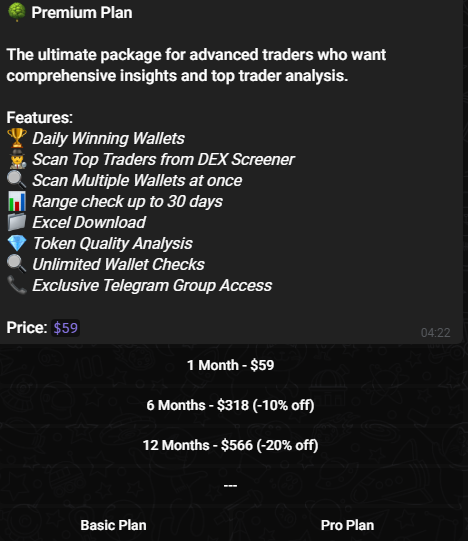
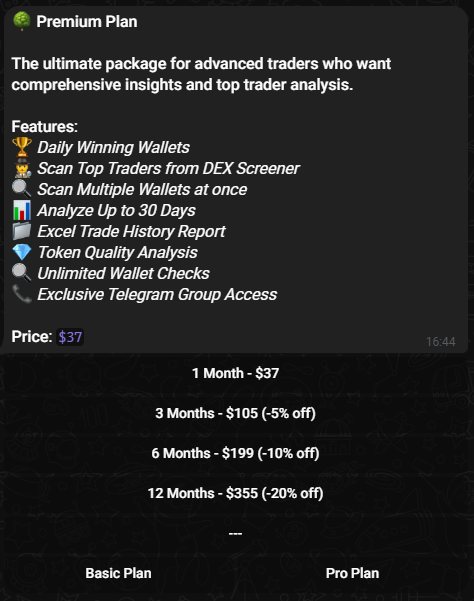
Add files via upload

diff --git a/index.html b/index.html
@@ -82,78 +82,91 @@
         </div>
     </section>
 
-<section id="plans" class="plan-container animate-on-scroll">
-    <div class="plan" id="plan-basic">
-      <h2>Basic</h2>
-      <h1>$19<span>/month</span></h1>
-      <ul>
-        <li>
-          <b class="feature-toggle">Unlimited Wallet Checks <span class="plus-icon">+</span></b>
-          <p class="feature-description">Check any wallet address as many times as you want, without limits.</p>
-        </li>
-        <li>
-          <b class="feature-toggle">Exclusive Telegram Group Access <span class="plus-icon">+</span></b>
-          <p class="feature-description">Join our private Telegram group for expert insights and community support.</p>
-        </li>
-      </ul>
-      <p>Perfect for beginners who need basic wallet analysis and community support.</p>
-      <a href="https://t.me/PulseTrackerSolPay_bot" target="_blank" class="plan-button">Get Basic Access!</a>
-    </div>
-  
-    <div class="plan" id="plan-standard">
-      <h2>Pro</h2>
-      <h1>$28<span>/month</span></h1>
-      <ul>
-        <li>
-          <b class="feature-toggle">Analyze Up to 30 Days <span class="plus-icon">+</span></b>
-          <p class="feature-description">Customize your analysis from 1 to 30 days. Focus on recent activity or examine longer-term patterns to suit your specific research needs.</p>
-        </li>
-        <li>
-          <b class="feature-toggle">Excel Trade History Report<span class="plus-icon">+</span></b>
-          <p class="feature-description">Download detailed wallet trading data in XLSX format. Easily review and analyze every transaction in a familiar spreadsheet format.</p>
-        </li>
-        <li>
-          <b class="feature-toggle">Token Quality Analysis <span class="plus-icon">+</span></b>
-          <p class="feature-description">Assess a wallet's skill in selecting profitable tokens. Evaluate historical performance to gauge the potential for future profitable trades and inform your investment strategy.</p>
-        </li>
-      </ul>
-      <ul>
-        <li class="small">Unlimited Wallet Checks</li>
-        <li class="small">Exclusive Telegram Group Access</li>
-      </ul>
-      <p>Ideal for intermediate traders looking for detailed trade logs and token choice analysis.</p>
-      <a href="https://t.me/PulseTrackerSolPay_bot" target="_blank" class="plan-button">Get Pro Access!</a>
-    </div>
-  
-    <div class="plan" id="plan-premium">
-      <h2>Premium</h2>
-      <h1>$37<span>/month</span></h1>
-      <ul>
-        <li>
-          <b class="feature-toggle">Daily Winning Wallets <span class="plus-icon">+</span></b>
-          <p class="feature-description">Gain exclusive access to our private announcement group for daily XLSX files detailing top-performing wallets, helping you make informed decisions.</p>
-        </li>
-        <li>
-          <b class="feature-toggle">Scan Multiple Wallets at once <span class="plus-icon">+</span></b>
-          <p class="feature-description">Use the /list command to analyze up to 10 wallets simultaneously, enabling efficient comparison across multiple traders.</p>
-        </li>
-        <li>
-          <b class="feature-toggle">Scan Top Traders from DEX Screener <span class="plus-icon">+</span></b>
-          <p class="feature-description">Utilize the /top command to identify and examine the top 10 wallets trading a specific token on DEX Screener, providing valuable insights into successful trading strategies.</p>
-        </li>
-      </ul>
-      <ul>
-        <li class="small">Unlimited Wallet Checks</li>
-        <li class="small">Exclusive Telegram Group Access</li>
-        <li class="small">Analyze Up to 30 Days</li>
-        <li class="small">Excel Trade History Report</li>
-        <li class="small">Token Quality Analysis</li>
-      </ul>
-      <p>The ultimate package for advanced traders who want comprehensive insights and top trader analysis.</p>
-      <a href="https://t.me/PulseTrackerSolPay_bot" target="_blank" class="plan-button">Get Premium Access!</a>
-    </div>
-</section>
+    <section id="plans" class="plan-container animate-on-scroll">
+        <div class="launch-price-label">Launch Prices</div>
+        <div class="plan" id="plan-basic">
+            <h2>Basic</h2>
+            <h1>
+                <span class="old-price">$26</span> 
+                <span class="new-price">$19</span><span>/month</span>
+            </h1>
+            <ul>
+                <li>
+                    <b class="feature-toggle">Unlimited Wallet Checks <span class="plus-icon">+</span></b>
+                    <p class="feature-description">Check any wallet address as many times as you want, without limits.</p>
+                </li>
+                <li>
+                    <b class="feature-toggle">Exclusive Telegram Group Access <span class="plus-icon">+</span></b>
+                    <p class="feature-description">Join our private Telegram group for expert insights and community support.</p>
+                </li>
+            </ul>
+            <p>Perfect for beginners who need basic wallet analysis and community support.</p>
+            <a href="https://t.me/PulseTrackerSolPay_bot" target="_blank" class="plan-button">Get Basic Access!</a>
+        </div>
+    
+        <div class="plan" id="plan-standard">
 
+            <h2>Pro</h2>
+            <h1>
+                <span class="old-price">$34</span> 
+                <span class="new-price">$28</span><span>/month</span>
+            </h1>
+            <ul>
+                <li>
+                    <b class="feature-toggle">Analyze Up to 30 Days <span class="plus-icon">+</span></b>
+                    <p class="feature-description">Customize your analysis from 1 to 30 days. Focus on recent activity or examine longer-term patterns to suit your specific research needs.</p>
+                </li>
+                <li>
+                    <b class="feature-toggle">Excel Trade History Report<span class="plus-icon">+</span></b>
+                    <p class="feature-description">Download detailed wallet trading data in XLSX format. Easily review and analyze every transaction in a familiar spreadsheet format.</p>
+                </li>
+                <li>
+                    <b class="feature-toggle">Token Quality Analysis <span class="plus-icon">+</span></b>
+                    <p class="feature-description">Assess a wallet's skill in selecting profitable tokens. Evaluate historical performance to gauge the potential for future profitable trades and inform your investment strategy.</p>
+                </li>
+            </ul>
+            <ul>
+                <li class="small">Unlimited Wallet Checks</li>
+                <li class="small">Exclusive Telegram Group Access</li>
+            </ul>
+            <p>Ideal for intermediate traders looking for detailed trade logs and token choice analysis.</p>
+            <a href="https://t.me/PulseTrackerSolPay_bot" target="_blank" class="plan-button">Get Pro Access!</a>
+        </div>
+    
+        <div class="plan" id="plan-premium">
+            
+
+            <h2>Premium</h2>
+            <h1>
+                <span class="old-price">$49</span> 
+                <span class="new-price">$37</span><span>/month</span>
+            </h1>
+            <ul>
+                <li>
+                    <b class="feature-toggle">Daily Winning Wallets <span class="plus-icon">+</span></b>
+                    <p class="feature-description">Gain exclusive access to our private announcement group for daily XLSX files detailing top-performing wallets, helping you make informed decisions.</p>
+                </li>
+                <li>
+                    <b class="feature-toggle">Scan Multiple Wallets at once <span class="plus-icon">+</span></b>
+                    <p class="feature-description">Use the /list command to analyze up to 10 wallets simultaneously, enabling efficient comparison across multiple traders.</p>
+                </li>
+                <li>
+                    <b class="feature-toggle">Scan Top Traders from DEX Screener <span class="plus-icon">+</span></b>
+                    <p class="feature-description">Utilize the /top command to identify and examine the top 10 wallets trading a specific token on DEX Screener, providing valuable insights into successful trading strategies.</p>
+                </li>
+            </ul>
+            <ul>
+                <li class="small">Unlimited Wallet Checks</li>
+                <li class="small">Exclusive Telegram Group Access</li>
+                <li class="small">Analyze Up to 30 Days</li>
+                <li class="small">Excel Trade History Report</li>
+                <li class="small">Token Quality Analysis</li>
+            </ul>
+            <p>The ultimate package for advanced traders who want comprehensive insights and top trader analysis.</p>
+            <a href="https://t.me/PulseTrackerSolPay_bot" target="_blank" class="plan-button">Get Premium Access!</a>
+        </div>
+    </section>
+    
 
 
     <h1 class="titles animate-on-scroll">Bot Tools</h1>
@@ -437,7 +450,12 @@
                     <div class="faq-question">What are the ways to get in touch?</div>
                     <div class="faq-answer">You can contact us via email at <a href="mailto:pulsetrackersolana@proton.me">pulsetrackersolana@proton.me</a>, on Telegram at <a href="https://t.me/cameronsol">@cameronsol</a>, or on Twitter at <a href="https://twitter.com/@PulseTrackerSol">@PulseTrackerSol</a>.</div>
                 </div>
-                
+                <div class="faq-item">
+                    <div class="faq-question">How does the renewal process work?</div>
+                    <div class="faq-answer">
+                        After the 30-day period, the renewal process is manual. You will need to purchase again to continue using the service on PayBot.
+                    </div>
+                </div>
             </div>
         </section>
 

diff --git a/styles.css b/styles.css
@@ -382,22 +382,20 @@ nav ul li a:active {
     padding: 20px;
     flex-wrap: wrap;
     background: linear-gradient(to top, #dfdfdf, #ffffff);
-    border-radius: 15px; /* Round the corners */
-    
-    margin: 0 auto; /* Center the container horizontally */
-    box-shadow: 0 0 10px rgba(0, 0, 0, 0.1); /* Optional: add box shadow for depth */
-    justify-content: center;
+    border-radius: 15px;
+    margin: 0 auto;
+    box-shadow: 0 0 10px rgba(0, 0, 0, 0.1);
 }
-
 
 .plan {
     flex: 1;
-    padding: 20px; /* Add padding for spacing */
-    border-left: 1px solid rgba(0, 0, 0, 0.1); /* Set a semi-transparent border */
+    padding: 20px;
+    border-left: 1px solid rgba(0, 0, 0, 0.1);
+    position: relative;
 }
 
-.plan:first-child {
-    border-left: none; /* Remove left border from the first .plan item */
+.plan:nth-of-type(2) {
+    border-left: none;
 }
 
 .plan h2 {
@@ -410,6 +408,21 @@ nav ul li a:active {
     font-size: 36px;
     margin: 10px 0;
     color: #333;
+}
+
+.plan h1 .new-price {
+    font-size: 36px;
+    color: #333;
+}
+
+.plan h1 .old-price {
+    font-size: 26px;
+    color: #888;
+    text-decoration: line-through;
+    font-weight: 100;
+    font-weight: bold;
+
+
 }
 
 .plan h1 span {
@@ -493,6 +506,35 @@ nav ul li a:active {
 }
 
 
+.old-price {
+    font-size: 18px;
+    color: #888;
+    text-decoration: line-through;
+}
+
+
+.launch-price-label {
+    position: absolute;
+    top: -20px;
+    right: -50px;
+    background: #ff3d3d;
+    color: #fff;
+    padding: 8px 10px;
+    border-radius: 10px;
+    font-size: 24px;
+    font-weight: bold;
+    transform-style: preserve-3d;
+    -webkit-font-smoothing: antialiased;
+    box-shadow: 0 2px 4px rgba(0,0,0,0.2);
+}
+
+.launch-price-label::after {
+    content: "Until Nov 1st!";
+    display: block;
+    font-size: 14px; /* Reduced font size */
+    font-weight: 500; /* Set a lighter font weight */
+    margin-top: 2px;
+}
 
 /* Mobile-specific styles */
 @media only screen and (max-width: 1212px) {
